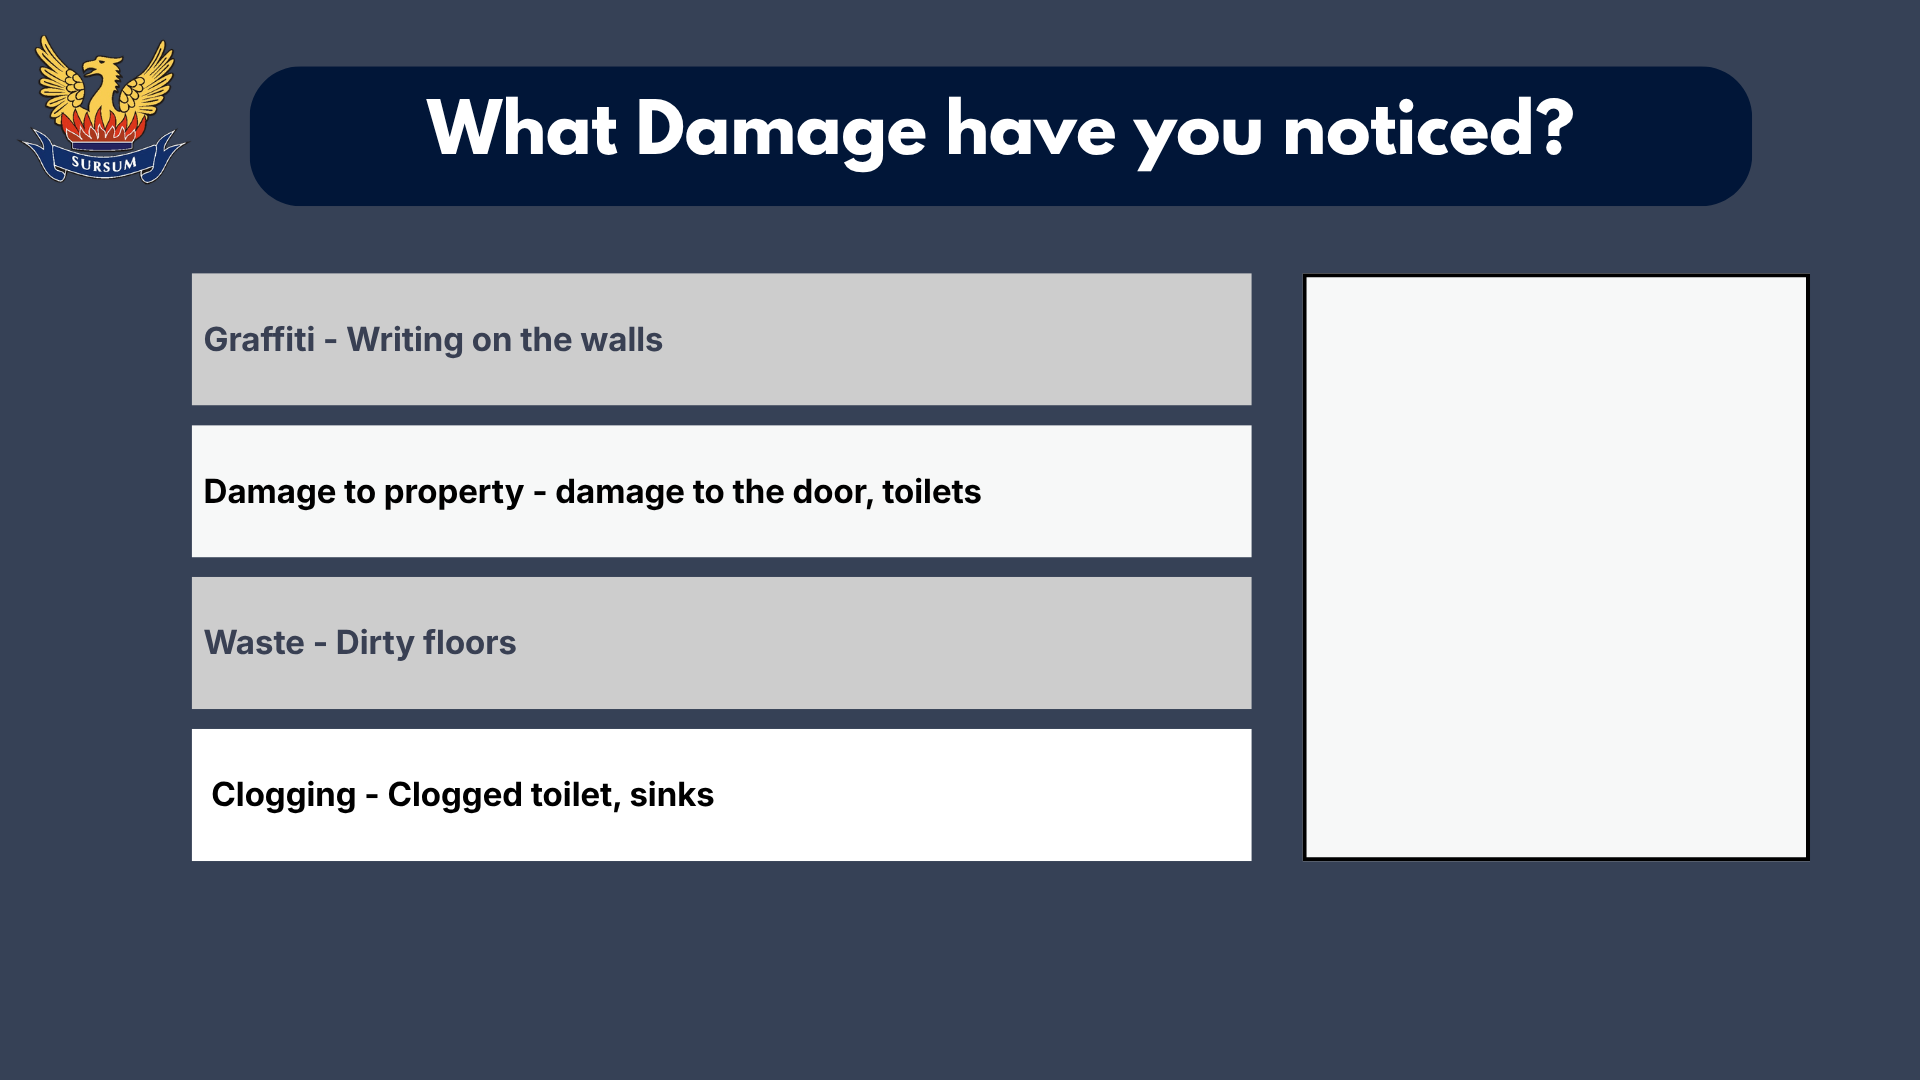
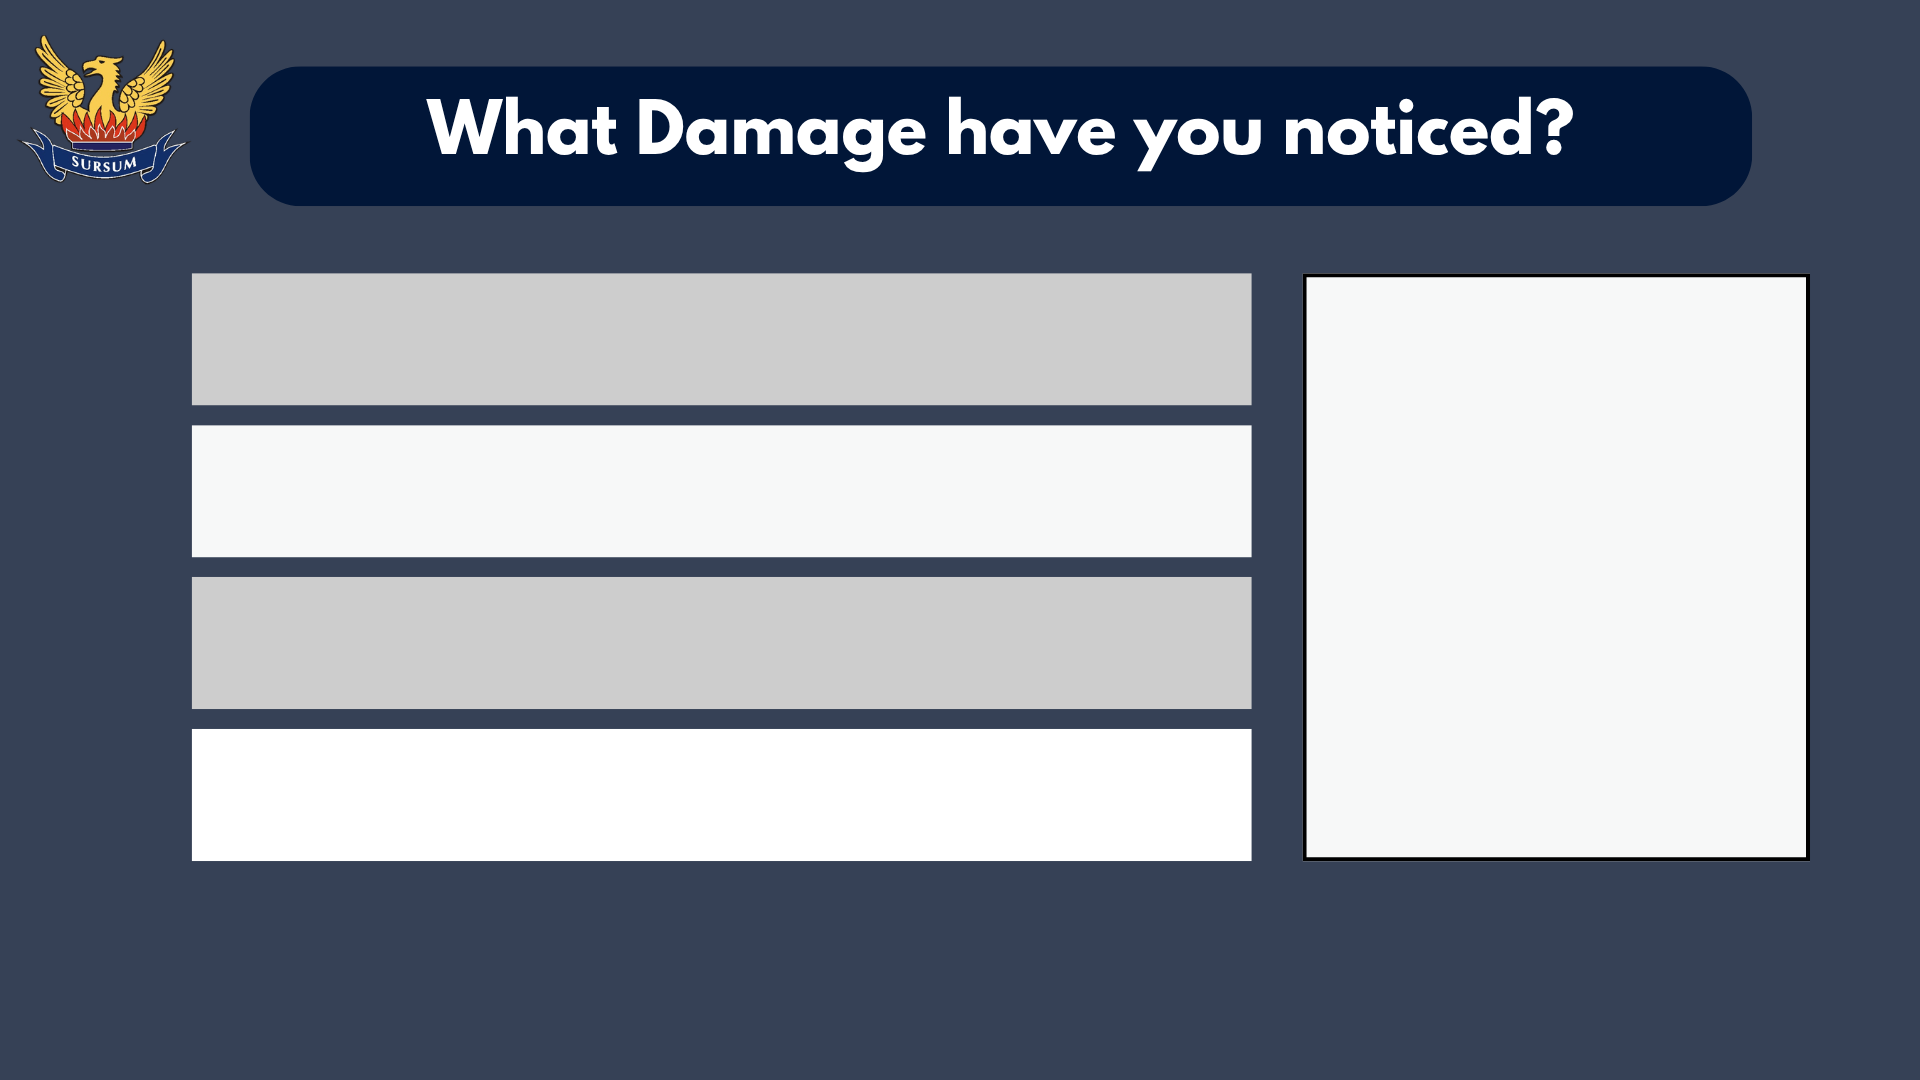
Replaced background image for the ReportDetails screen Partially created labels for text

diff --git a/main.py b/main.py
@@ -169,16 +169,21 @@ class Choice:
         self.shutdown_image_tk = ImageTk.PhotoImage(self.shutdown_image)
 
         self.shutdown_button = Button(self.pframe, command=self.shutdown, image=self.shutdown_image_tk,
-                                      background=background_color,
-                                      activebackground=background_color, borderwidth=0, cursor="hand2")
+                                      background=background_color, activebackground=background_color, borderwidth=0, cursor="hand2")
         self.shutdown_button.place(relx=0.95, rely=0.08, anchor="center")
 
 class Selector:
     def shutdown(self):
         exit()
+
     def backpage(self):
         self.pframe.destroy()
         Choice(root)
+
+    def nextpage(self):
+        self.pframe.destroy()
+        ReportDetails(root)
+
     def __init__(self, parent):
         # makes variables that have the value of the parent screen width (eg if a device aspect ratio is 3:4, the variables are 3:4)
         self.window_width = parent.winfo_screenwidth()
@@ -217,7 +222,7 @@ class Selector:
 
         # Report button
         self.report_button = Button(self.pframe, image=self.report_button_tk, bg="#293142", activebackground="#293142",
-                                    borderwidth=0, cursor="hand2")
+                                    borderwidth=0, cursor="hand2", command=self.nextpage)
         self.report_button.place(relx=0.8, rely=0.89 , anchor="center")
         self.report_button.image = self.report_button_tk
 
@@ -271,6 +276,17 @@ class ReportDetails:
         self.bg_image4 = self.bg_image4.resize((self.window_width, self.window_height),
                                                Image.LANCZOS)  # resizes the image to match the parent aspect ratio
         self.bg_image4_tk = ImageTk.PhotoImage(self.bg_image4)
+
+        # label for background image
+        self.image_label = Label(self.pframe, image=self.bg_image4_tk)
+        self.image_label.place(x=0, y=0, relwidth=1, relheight=1)  # make label l to fit the parent window always
+        self.image_label.image = self.bg_image4_tk
+
+        #4 labels for the text
+
+        self.label1 = Label(self.pframe, bg = "#cdcdcd", font =("Inter","25"))
+        self.label1.place()
+
 
 
 